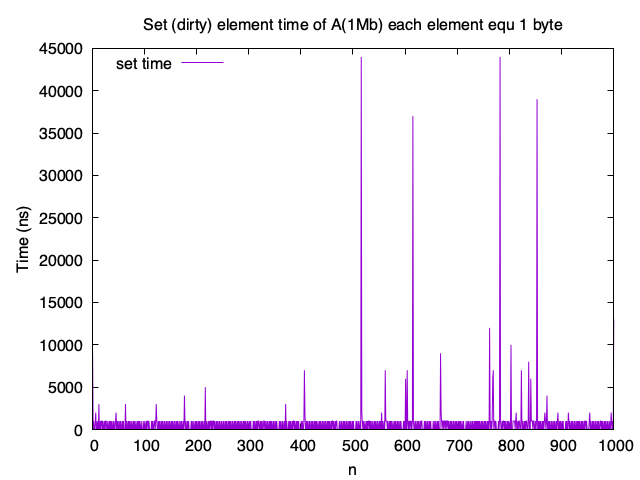
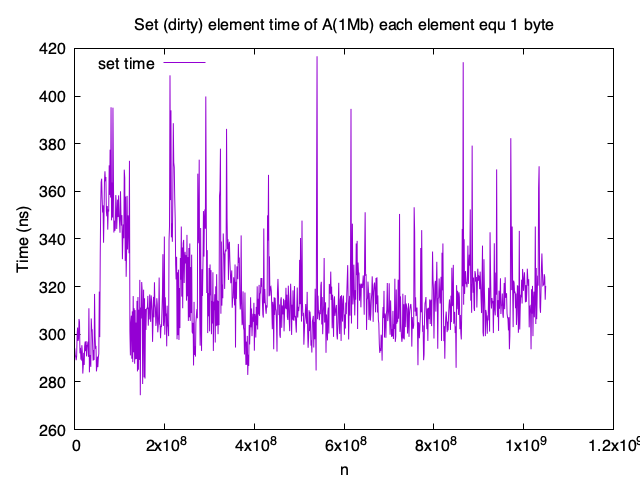
testd

diff --git a/README.md b/README.md
@@ -98,7 +98,7 @@ Writing to an array is very slow. Depends on the size of the array. For 1mb arch
 
 ![Image of set](set.png)
 
-Dirty update immutabble binary. Fast. Not safe for multithread.
+Dirty update immutabble binary. Fast. Not safe for multithread. Approximately average 350ns
 
 ![Image of dirty_set](dirty_set.png)
 
